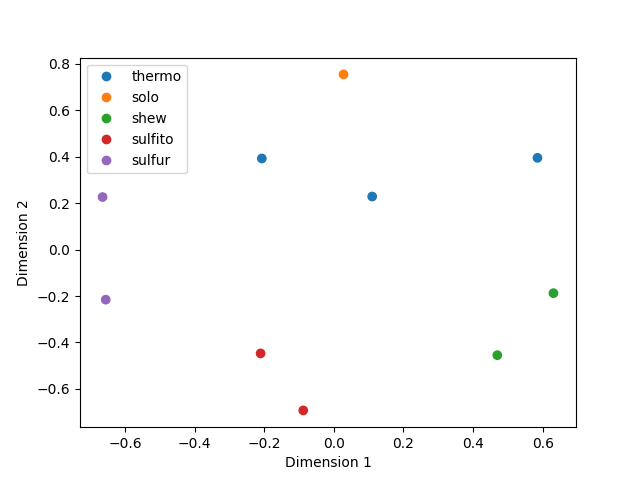
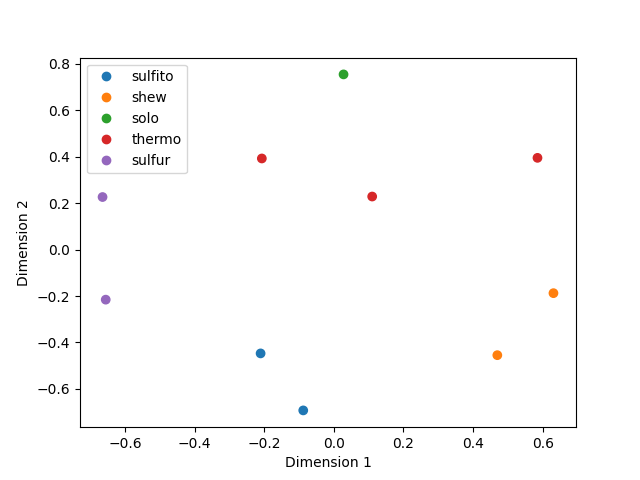
fix mds2?

diff --git a/src/sourmash_plugin_betterplot.py b/src/sourmash_plugin_betterplot.py
@@ -65,9 +65,6 @@ def load_categories_csv(filename, labelinfo):
             for row in categories:
                 category_map2[row[key]] = category_map[row["category"]]
 
-            #            from pprint import pprint
-            #            pprint(category_map2)
-
             colors = []
             for row in labelinfo:
                 value = row[key]
@@ -93,6 +90,8 @@ def load_categories_csv_for_labels(filename, queries):
         key = "label"
 
         category_values = list(set([row["category"] for row in categories]))
+        category_values.sort()
+
         cat_colors = list(map(plt.cm.tab10, range(len(category_values))))
         category_map = {}
         for v, color in zip(category_values, cat_colors):
@@ -102,11 +101,7 @@ def load_categories_csv_for_labels(filename, queries):
         for row in categories:
             label = row[key]
             cat = row["category"]
-            print('XXX', cat, label)
             category_map2[label] = category_map[cat]
-
-        #from pprint import pprint
-        #pprint(category_map2)
 
         colors = []
         for label, idx in queries:
@@ -350,8 +345,6 @@ def plot2(args):
         # @CTB 'distance'...? does this conflict with 'linkage'?
         assignments = sch.fcluster(linkage_Z, cut_point, "distance")
 
-        # print(assignments)
-
         # reorganize labelinfo by cluster
         cluster_d = defaultdict(list)
         for cluster_n, label_row in zip(assignments, labelinfo):
@@ -360,10 +353,6 @@ def plot2(args):
         # output labelinfo rows.
         notify(f"writing {len(cluster_d)} clusters.")
         for k, v in cluster_d.items():
-            # print(f"cluster {k}")
-            # for row in v:
-            #    print(f"\t{row['label']}")
-
             filename = f"{prefix}.{k}.csv"
             with sourmash_args.FileOutputCSV(filename) as fp:
                 w = csv.DictWriter(fp, fieldnames=labelinfo[0].keys())
@@ -444,31 +433,45 @@ class Command_MDS2(CommandLinePlugin):
         with sourmash_args.FileInputCSV(args.comparison_csv) as r:
             rows = list(r)
 
+        # pick out all the distinct queries/matches.
         print(f"loaded {len(rows)} rows from '{args.comparison_csv}'")
         queries = set( [ row['query_name'] for row in rows ] )
         queries.update(set( [ row['match_name'] for row in rows ] ))
         print(f"loaded {len(queries)} total elements")
 
+        queries = list(sorted(queries))
+
         sample_d = {}
         for n, sample_name in enumerate(queries):
             sample_d[sample_name] = n
 
-        assert n <= len(queries)
+        assert n == len(queries) - 1
 
         mat = numpy.zeros((len(queries), len(queries)))
 
         pairs = []
         for row in rows:
+            # get unique indices for each query/match pair.
             q = row['query_name']
             qi = sample_d[q]
             m = row['match_name']
             mi = sample_d[m]
             jaccard = float(row['jaccard'])
 
-            mat[qi, mi] = 1 - jaccard
-            mat[mi, qi] = 1 - jaccard
+            mat[qi, mi] = jaccard
+            mat[mi, qi] = jaccard
 
         numpy.fill_diagonal(mat, 1)
+
+        with open('XXX.mat', 'wb') as fp:
+            numpy.save(fp, mat)
+
+        with open('XXX.mat.labels.csv', 'wt') as fp:
+            w = csv.writer(fp)
+            w.writerow(['sort_order', 'label'])
+
+            for label, n in sample_d.items():
+                w.writerow([n, label])
 
         # Example usage
         # Assume object indices instead of names for simplicity
@@ -480,11 +483,10 @@ class Command_MDS2(CommandLinePlugin):
         category_map = None
         colors = None
         if args.categories_csv:
-            xx = sample_d.items()
-            xx = list(sorted(xx, key=lambda x: x[1]))
-            category_map, colors = load_categories_csv_for_labels(args.categories_csv, xx)
+            category_map, colors = load_categories_csv_for_labels(args.categories_csv, sample_d.items())
 
-        plot_mds(mat, colors=colors, category_map=category_map)
+        dissim = 1 - mat
+        plot_mds(dissim, colors=colors, category_map=category_map)
 
         plt.savefig(args.output_figure)
 
